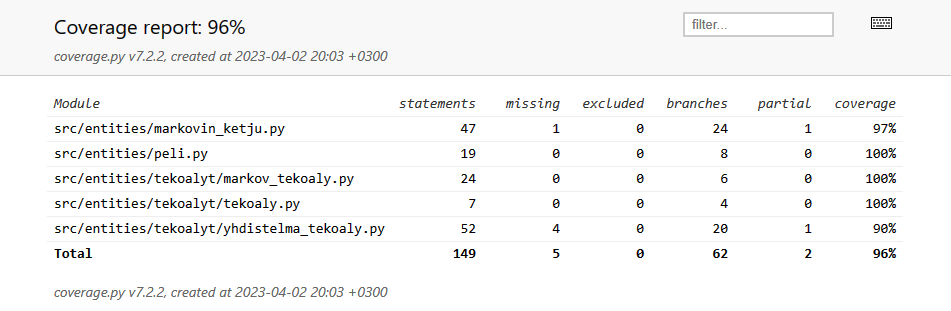
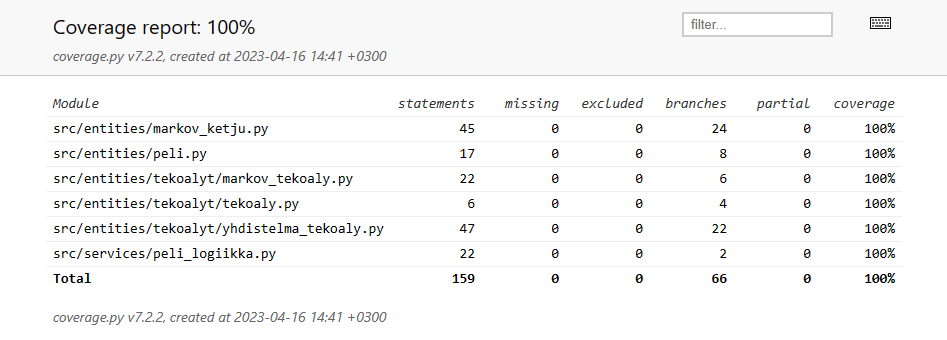
Päivitä dokumentaatio

diff --git a/dokumentaatio/testausdokumentti.md b/dokumentaatio/testausdokumentti.md
@@ -17,7 +17,24 @@ Markovin ketjua kuvaava `MarkovinKetju`-luokka on testattu yksikkötesteillä.
 Markovin ketjun perustuvaa tekoälyä kuvaava `MarkovTekoaly`-luokka on testattu yksikkötesteillä yksinkertaisissa tapauksissa.
 
 Yhdistelmätekoälyä kuvaava `YhdistelmaTekoaly`-luokan yksinkertaiset metodit on testattu yksikkötesteillä.
-Tekoälyihin liittyvien satunnaisuuden vuoksi `lisaa`- ja `pelaa`-metodit ovat vielä testaamatta.
+Lisäksi toimintaa on testattu sännöllisellä syötteillä sekä pidemmällä syötteellä, jotka on tuotettu räpläämällä näppäimistöä ja tutkimalla eri pituisten osajonojen frekvenssejä seuraavalla koodilla:
+
+```python
+jono = input("Syöte: ")
+pituus = int(input("Pituus: "))
+
+jakauma = {}
+
+for i in range(0, len(jono) + 1 - pituus):
+    osa = jono[i : i + pituus]
+
+    jakauma[osa] = jakauma.get(osa, 0) + 1
+
+print(len(jono))
+l = list(jakauma.items())
+print(sorted(l, key=lambda x: x[1], reverse=True))
+
+```
 
 ### Sovelluslogiikka
 

diff --git a/dokumentaatio/viikkoraportit/viikkoraportti4.md b/dokumentaatio/viikkoraportit/viikkoraportti4.md
@@ -6,6 +6,7 @@
 |----------|----|
 |3.4.|3 tuntia 10 min|
 |10.4.|2 tunti 40 min|
+|16.4.|3 tuntia 40 min|
 
 ## Mitä tehty?
 
@@ -15,5 +16,12 @@
 - Lisätty testejä `YhdistelmaTekoaly`-luokalle
 - Lisätty `PeliLogiikka`-luokka, joka vastaa nimenomaan pelin logiikasta
 - Lisätty alustava käyttöliittymä
+- Lisätty alustava toteutusdokumentti
+- Päivitetty testausdokumenttia
 
 ## Mitä seuraavaksi?
+
+- Käyttöliittymän hienosäätöä
+- `YhdistelmaTekoaly`-luokalle ominaisuus, että jokaisen pelin jälkeen vaihdetaan muutaman edellisen kierroksen tuloksien perusteella
+- Dokumentaation kirjoittamista
+- Muiden koodien vertaisarviointi
